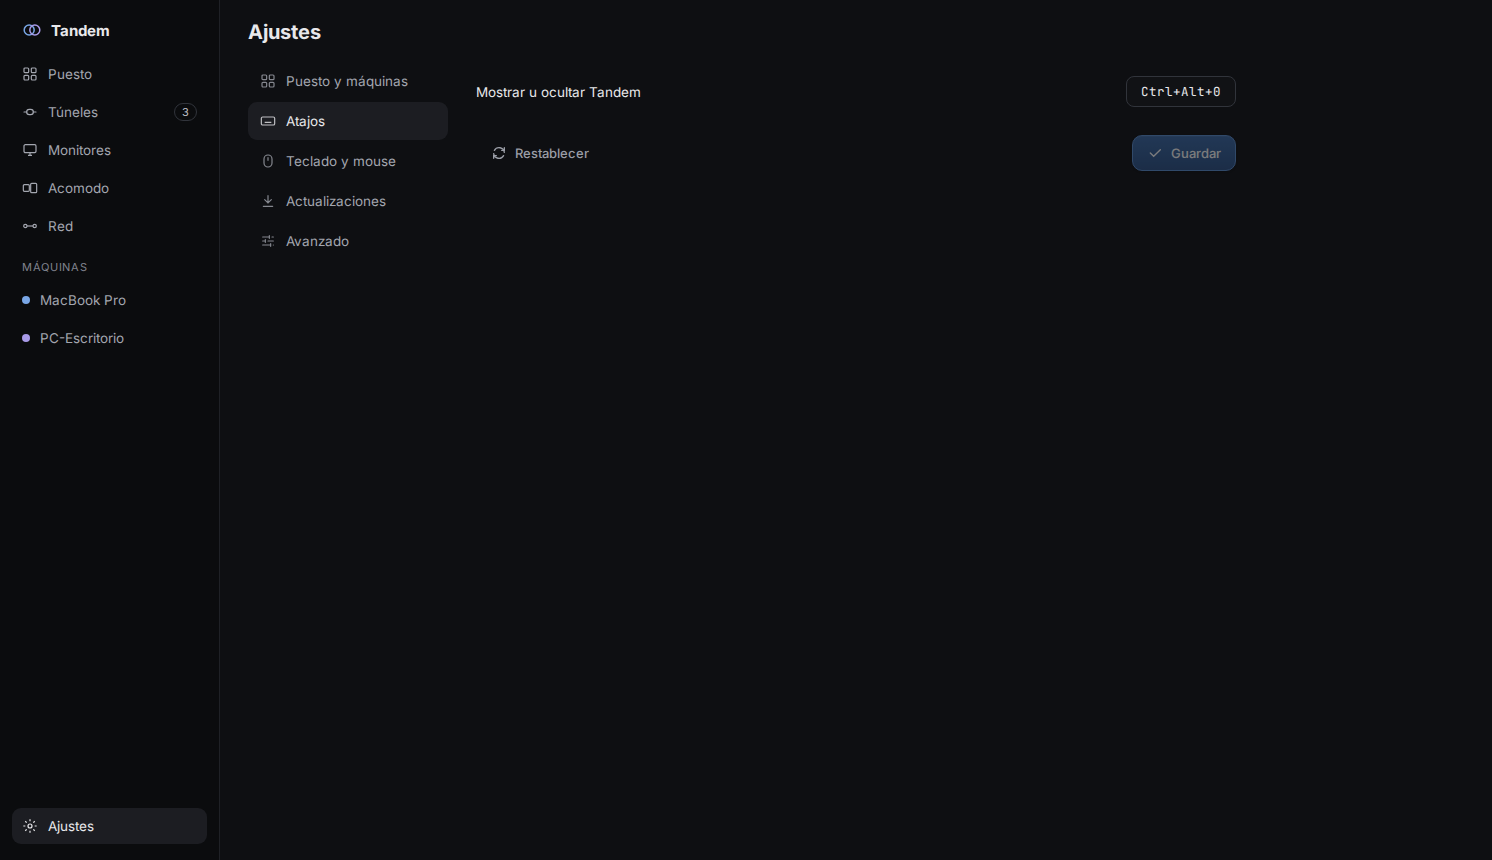
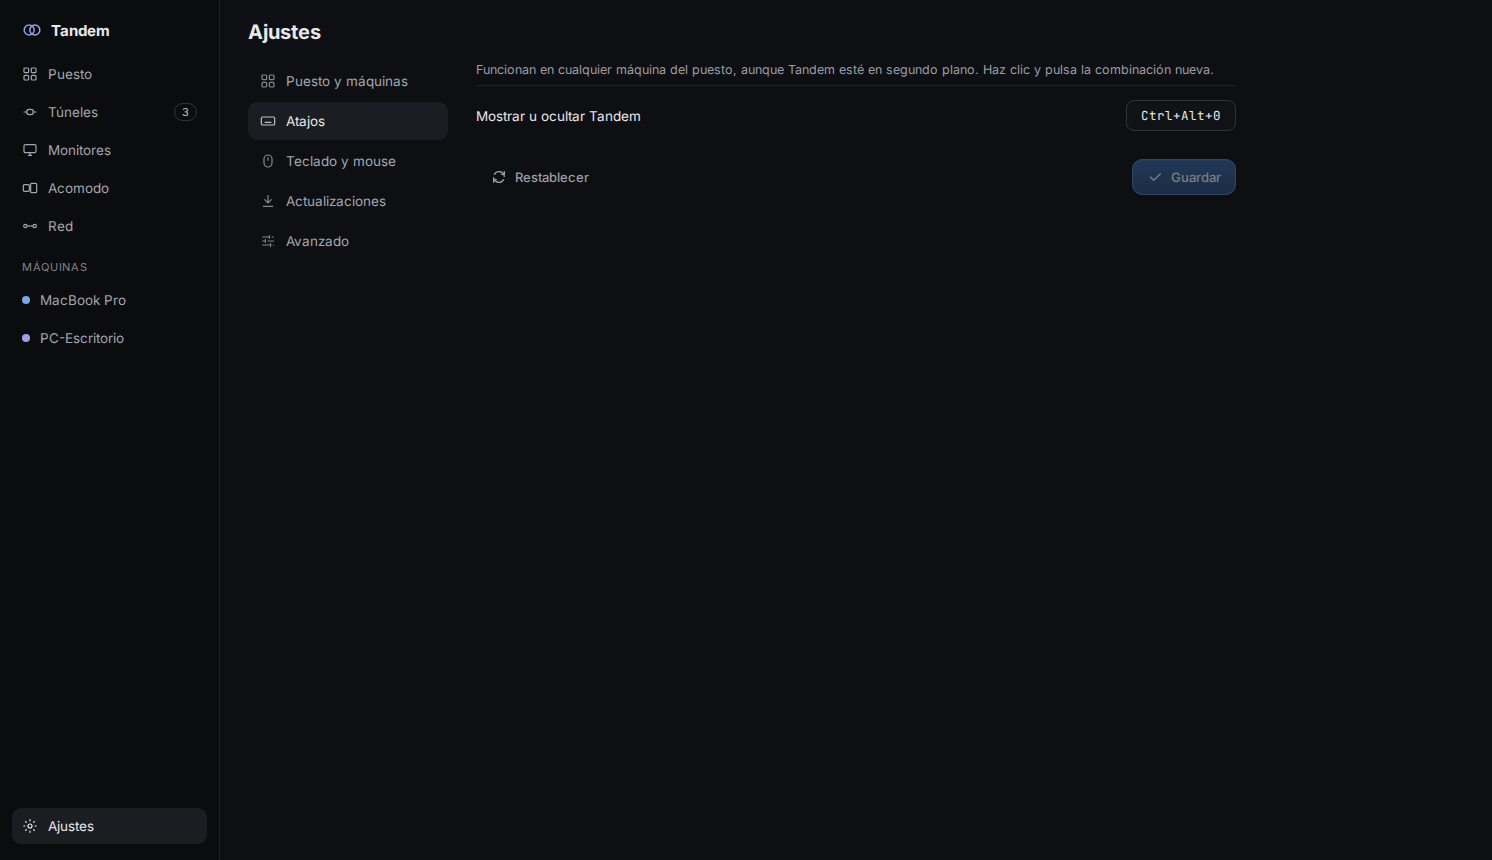
WIP T-120: Ajustes y Estados al 0.99 contra sus mockups

Changed region(s): [[0.3083, 0.0605, 0.8324, 0.2419]]

diff --git a/apps/tandem-ui/scripts/shots-spec.ts b/apps/tandem-ui/scripts/shots-spec.ts
@@ -48,6 +48,8 @@ export interface ShotSpec {
   keys?: string[];
   /** Selectores a los que se hace clic antes de capturar (los pasos del estado del mockup). */
   clicks?: string[];
+  /** Sacar el mouse de la ventana tras los clics: el mockup redibuja el botón y pierde el hover. */
+  unhover?: boolean;
   /** Estado con nombre del mockup (`docs/mockups-png/<mockup>--<state>.png`). */
   state?: string;
   /** Umbral de la pantalla entera (si se da, `--check` lo exige). */
@@ -272,7 +274,7 @@ const ajustesShot = (name: string, state: string | undefined, clicks: string[], 
   content: {
     appWidth: MAC_PAGE_WIDTH,
     appStyle: 'nav[aria-label="Principal"] { flex: 0 0 220px !important; }',
-    app: "main h1",
+    app: "main .head",
     mockup: "h1",
     masks,
     min: SIDEBAR_GATE,
@@ -282,13 +284,19 @@ const tab = (label: string) => `[role="tab"]:has-text("${label}")`;
 export const AJUSTES: ShotSpec[] = [
   ajustesShot("ajustes", undefined, [], [
     { app: NONE, mockup: 'button.danger:has-text("Sacar del puesto")', reason: "D1: sin «Sacar del puesto» (exactamente dos máquinas)" },
+    { app: ".pane > .row:nth-child(3) > button", mockup: ".pane > .row:nth-child(3) > button", reason: "D1: la fila de la otra máquina no trae «Sacar del puesto»; sus botones se corren" },
     { app: ".pane > .row:nth-child(4)", mockup: ".pane > .row:nth-child(4)", reason: "D1: «Cambiar la otra máquina» en lugar de «Agregar una máquina»" },
   ]),
-  ajustesShot("ajustes-atajos", "atajos", [tab("Atajos")]),
+  ajustesShot("ajustes-atajos", "atajos", [tab("Atajos")], [
+    { app: ".combo", mockup: ".combo", reason: "El texto de la combinación sigue al sistema de la ventana (Ctrl+Alt+0 en Windows y Linux, ⌃⌥0 en macOS)" },
+    { app: ".pane > .row:nth-child(n+3)", mockup: ".pane > .row:nth-child(n+3)", reason: "Solo hay un atajo editable en la app (mostrar u ocultar); bloqueo, paleta y escenas llegan después" },
+  ]),
   ajustesShot("ajustes-teclado", "teclado", [tab("Teclado y mouse")]),
   ajustesShot("ajustes-actualizaciones", "actualizaciones", [tab("Actualizaciones")]),
-  ajustesShot("ajustes-actualizaciones-buscado", "actualizaciones-buscado", [tab("Actualizaciones"), 'button:has-text("Buscar ahora")']),
-  ajustesShot("ajustes-avanzado", "avanzado", [tab("Avanzado")]),
+  { ...ajustesShot("ajustes-actualizaciones-buscado", "actualizaciones-buscado", [tab("Actualizaciones"), 'button:has-text("Buscar ahora")']), unhover: true },
+  ajustesShot("ajustes-avanzado", "avanzado", [tab("Avanzado")], [
+    { app: ".pane > .row:nth-child(3) .path", mockup: ".pane > .row:nth-child(3) .mono", reason: "El agente todavía no cuenta las sesiones del servidor MCP" },
+  ]),
 ];
 
 export const ESTADOS: ShotSpec = {
@@ -302,7 +310,7 @@ export const ESTADOS: ShotSpec = {
   content: {
     appWidth: 220 + 2 * 28 + (1280 - 2 * 28),
     appStyle: 'nav[aria-label="Principal"] { flex: 0 0 220px !important; }',
-    app: "main h1",
+    app: "main .head",
     mockup: "h1",
     masks: [{ app: NONE, mockup: 'button.btn:has-text("Enviar por Wi-Fi igual")', reason: "El agente no tiene «enviar por Wi-Fi igual»: sin función, sin botón" }],
     min: SIDEBAR_GATE,

diff --git a/apps/tandem-ui/src/lib/states.ts b/apps/tandem-ui/src/lib/states.ts
@@ -45,13 +45,24 @@ export interface StateCardSpec {
 /** Cuánto tarda en despertar la otra máquina (DESIGN §8). */
 export const WAKE_HINT = "≈ 40 s";
 
+/**
+ * La ruta del binario sin el texto que la rodea («Concede el permiso a este binario: <ruta> (pid
+ * 12)») y abreviada: `/Applications/Tandem.app/Contents/MacOS/tandemd` → `/Applications/Tandem.app/…/tandemd`.
+ */
+export function shortPath(text: string | null): string {
+  const raw = (text ?? "/Applications/Tandem.app/Contents/MacOS/tandemd").replace(/^.*?:\s*/, "").replace(/\s*\(pid \d+\)$/, "");
+  const parts = raw.split("/");
+  return parts.length > 4 ? [...parts.slice(0, 3), "…", parts[parts.length - 1]].join("/") : raw;
+}
+
 /** Las nueve tarjetas, en el orden del mockup. */
 export function stateCards(d: DeskView): StateCardSpec[] {
   const here = d.machines[d.here]?.name ?? "Esta máquina";
   const peerId = d.here === "a" ? "b" : "a";
   const peer = d.machines[peerId]?.name ?? "La otra máquina";
   const mac = d.machines[d.here]?.os === "macos";
-  const owner = d.tunnels[0]?.title ?? "Entrenar LoRA";
+  // Ejemplos de la vista de referencia: el trabajo no sale de un túnel real.
+  const owner = "Entrenar LoRA";
   return [
     {
       id: "first",
@@ -132,7 +143,7 @@ export function stateCards(d: DeskView): StateCardSpec[] {
       body: mac
         ? `Sin este permiso, ${here} no puede mandar su teclado. Concédelo a {code}; Tandem lo detecta solo.`
         : `Sin este permiso, ${here} no puede mandar su teclado. Concédelo a Tandem; Tandem lo detecta solo.`,
-      code: mac ? (d.permissions.binary ?? "/Applications/Tandem.app/…/tandemd") : undefined,
+      code: mac ? shortPath(d.permissions.binary) : undefined,
       action: { label: "Abrir Ajustes del Sistema", icon: "external", variant: "pri", does: "permission" },
     },
   ];

diff --git a/apps/tandem-ui/src/screens/Updates.svelte b/apps/tandem-ui/src/screens/Updates.svelte
@@ -8,6 +8,8 @@
   import Switch from "../ui/Switch.svelte";
 
   const store = useStore();
+  // Los botones de Ajustes miden 34 px (`F-Ajustes`).
+  const B34 = "--btn-h:34px;--btn-px:13px;--btn-gap:7px";
 
   let view = $state<UpdateView | null>(null);
   let checkedOnce = $state(false);
@@ -62,12 +64,12 @@
 {#if view && version}
   <div class="row first">
     <span class="fill col">{version.title}<span class="mut sub">{version.detail}</span></span>
-    <Button icon="refresh" motion="spin" disabled={view.checking || view.step !== null} onclick={check}>{checkLabel(view, checkedOnce)}</Button>
+    <Button icon="refresh" size="sm" style={B34} motion="spin" disabled={view.checking || view.step !== null} onclick={check}>{checkLabel(view, checkedOnce)}</Button>
   </div>
   {#if found}
     <div class="row appear">
       <span class="fill col">{found.title}<span class="mut sub">{found.detail}</span></span>
-      <Button icon="download" variant="pri" disabled={view.step !== null} onclick={updateAll}>Actualizar todas</Button>
+      <Button icon="download" variant="pri" size="sm" style={B34} disabled={view.step !== null} onclick={updateAll}>Actualizar todas</Button>
     </div>
   {:else if upToDate(view, checkedOnce)}
     <div class="row appear"><span class="fill mut">No hay versiones nuevas.</span></div>

diff --git a/apps/tandem-ui/scripts/shots.ts b/apps/tandem-ui/scripts/shots.ts
@@ -154,7 +154,7 @@ function compareContent(spec: ShotSpec, png: Buffer, appBoxes: Record<string, Re
     if (k.mockup) for (const r of mockBoxes[k.mockup] ?? []) holes.push(rel(r, m));
   }
   const app = mask(crop(png, { x: a.x, y: a.y, width, height }), holes);
-  const ref = mask(crop(readFileSync(mockupShotPath(spec.mockup)), { x: m.x, y: m.y, width, height }), holes);
+  const ref = mask(crop(readFileSync(mockupShotPath(spec.mockup, spec.state)), { x: m.x, y: m.y, width, height }), holes);
   const r = compare(app, ref);
   if (diffPath) writeFileSync(diffPath, r.diffPng);
   const ok = r.similarity >= c.min.similarity && r.worstTile.similarity >= c.min.worstTile;
@@ -220,6 +220,10 @@ async function shoot(browser: Browser, spec: ShotSpec, args: Args): Promise<Shot
     }
     for (const k of spec.keys ?? []) {
       await page.keyboard.press(k);
+      await settle(page);
+    }
+    if (spec.unhover) {
+      await page.mouse.move(0, 0);
       await settle(page);
     }
     const text = await page.evaluate(() => document.body.innerText);

diff --git a/apps/tandem-ui/src/ui/StateCard.svelte b/apps/tandem-ui/src/ui/StateCard.svelte
@@ -28,7 +28,7 @@
   {#if spec.mono}<span class="mono mut line">{spec.mono}</span>{/if}
   {#if spec.action}
     <div class="act">
-      <Button icon={spec.action.icon} variant={spec.action.variant} motion={spec.action.icon === "refresh" ? "spin" : "scale"} style="--btn-h:38px;--btn-px:15px" onclick={onaction}>{spec.action.label}</Button>
+      <Button icon={spec.action.icon} variant={spec.action.variant} motion={spec.action.icon === "refresh" ? "spin" : "scale"} style="--btn-h:38px;--btn-px:{spec.action.variant === 'ghost' ? 10 : 15}px" onclick={onaction}>{spec.action.label}</Button>
       {#if spec.action.hint}<span class="mut hint">{spec.action.hint}</span>{/if}
     </div>
   {/if}

diff --git a/apps/tandem-ui/src/screens/Shortcuts.svelte b/apps/tandem-ui/src/screens/Shortcuts.svelte
@@ -72,6 +72,7 @@
 </script>
 
 {#if view?.warning}<p class="warn">{view.warning}</p>{/if}
+<p class="mut intro">Funcionan en cualquier máquina del puesto, aunque Tandem esté en segundo plano. Haz clic y pulsa la combinación nueva.</p>
 {#each ACTIONS as a (a)}
   <div class="row">
     <span class="fill col">
@@ -106,8 +107,9 @@
     font-size: 13.5px;
     flex-wrap: wrap;
   }
-  .row:first-of-type {
-    border-top: 0;
+  .intro {
+    margin: 0 0 8px;
+    font-size: 12.5px;
   }
   .row.end {
     border-top: 0;
